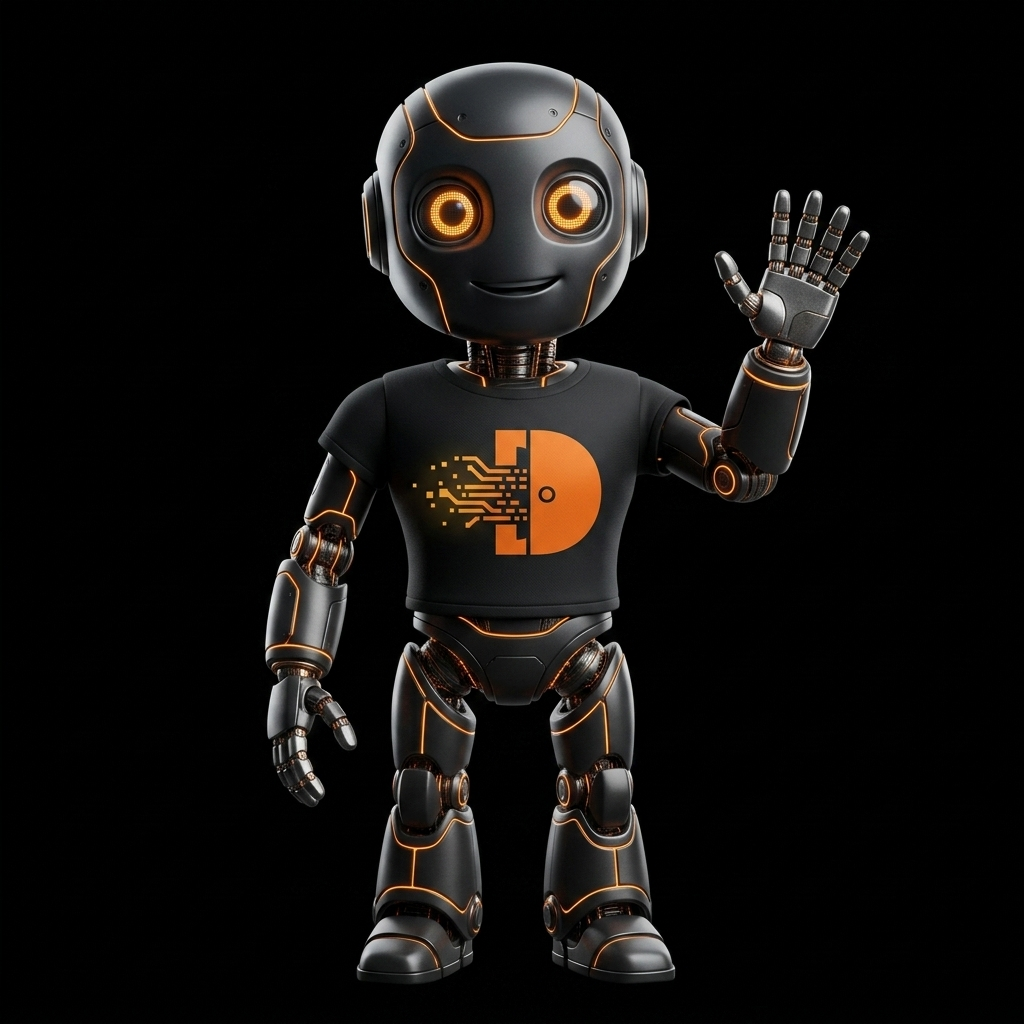
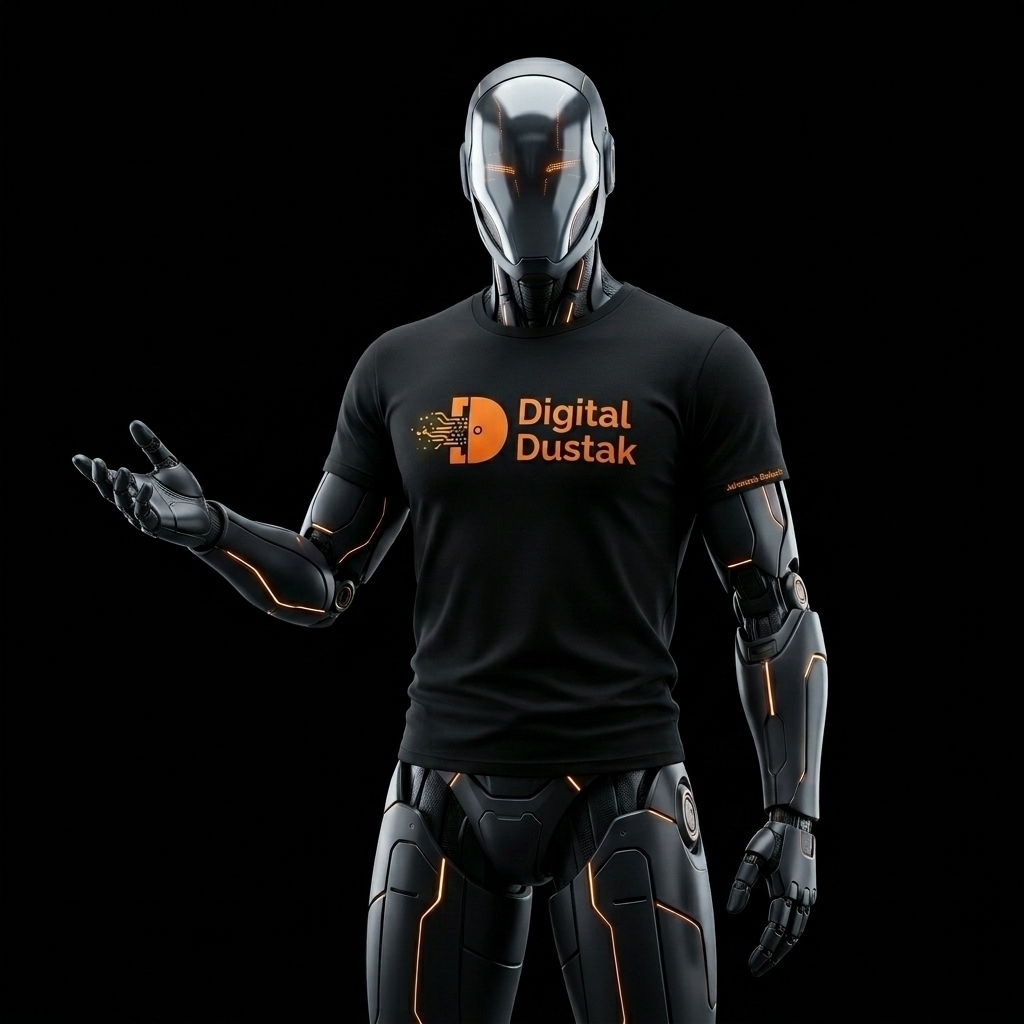
feat: implemented premium wandering AI robot with Jahanzeb Baloch name, transparent blending, and autonomous speech bubble

Changed region(s): [[0.0625, 0.0312, 0.8438, 1.0]]

diff --git a/styles/chat.css b/styles/chat.css
@@ -9,56 +9,107 @@
 
 #celestial-chat-container {
     position: fixed;
-    bottom: 30px;
-    right: 30px;
+    top: 0;
+    left: 0;
+    /* Move container off-screen initially to avoid flicker, JS will place it */
+    transform: translate(-500px, -500px); 
     z-index: 10000;
     font-family: 'Inter', sans-serif;
+    /* Smooth wandering movement using GPU */
+    transition: transform 4s ease-in-out;
+    pointer-events: none; /* Let clicks pass through the huge invisible container */
+}
+
+/* Re-enable pointer events for actual interactive children */
+#celestial-chat-container * {
+    pointer-events: auto;
 }
 
 /* Launcher Button (The Robot Mascot) */
 #chat-launcher {
-    width: 100px; /* Increased size */
-    height: 100px;
-    border-radius: 50%;
+    width: 180px; /* Much larger premium size */
+    height: 180px;
     cursor: pointer;
     position: relative;
-    transition: all 0.4s cubic-bezier(0.175, 0.885, 0.32, 1.275);
     overflow: visible;
-    /* 3D Floating Animation */
-    animation: floating-3d 4s ease-in-out infinite;
-    will-change: transform; /* GPU Hint for smooth 3D motion */
+    display: flex;
+    align-items: center;
+    justify-content: center;
+    border-radius: 50%;
 }
 
 #chat-launcher img {
-    width: 100%;
-    height: 100%;
+    width: 130%;
+    height: 130%;
     object-fit: contain;
-    /* Glow effect */
-    filter: drop-shadow(0 0 15px rgba(245, 124, 44, 0.4));
+    /* PERFECT BLENDING for pure black background */
+    mix-blend-mode: screen; 
+    /* Subtle breathing animation instead of aggressive floating */
+    animation: breathing 4s ease-in-out infinite;
+    will-change: transform;
+    filter: drop-shadow(0 0 10px rgba(245, 124, 44, 0.2));
 }
 
-@keyframes floating-3d {
-    0% { transform: translateY(0px) rotateX(0deg) rotateY(0deg); }
-    50% { transform: translateY(-20px) rotateX(5deg) rotateY(15deg); }
-    100% { transform: translateY(0px) rotateX(0deg) rotateY(0deg); }
+@keyframes breathing {
+    0% { transform: scale(1) translateY(0); }
+    50% { transform: scale(1.02) translateY(-5px); }
+    100% { transform: scale(1) translateY(0); }
 }
 
-#chat-launcher:hover {
-    transform: scale(1.1) rotate(5deg);
-    box-shadow: 0 0 35px rgba(245, 124, 44, 0.5);
+#chat-launcher:hover img {
+    transform: scale(1.08) translateY(-10px);
+    filter: drop-shadow(0 0 20px rgba(245, 124, 44, 0.6));
+    animation-play-state: paused;
 }
 
-@keyframes bubble-pulse {
-    0% { transform: scale(1); opacity: 0.6; }
-    50% { transform: scale(1.15); opacity: 0.2; }
-    100% { transform: scale(1); opacity: 0.6; }
+/* Autonomous Speech Bubble */
+.chat-speech-bubble {
+    position: absolute;
+    top: -70px;
+    left: 50%;
+    transform: translateX(-50%) translateY(20px) scale(0.8);
+    background: rgba(20, 20, 20, 0.95);
+    border: 1px solid rgba(245, 124, 44, 0.4);
+    box-shadow: 0 10px 25px rgba(0,0,0,0.5), 0 0 15px rgba(245, 124, 44, 0.2);
+    border-radius: 12px;
+    padding: 12px 18px;
+    color: #fff;
+    font-size: 13px;
+    font-weight: 500;
+    white-space: nowrap;
+    opacity: 0;
+    visibility: hidden;
+    transition: all 0.5s cubic-bezier(0.175, 0.885, 0.32, 1.275);
+    pointer-events: none;
+    z-index: 100;
+}
+
+.chat-speech-bubble::after {
+    content: '';
+    position: absolute;
+    bottom: -6px;
+    left: 50%;
+    transform: translateX(-50%) rotate(45deg);
+    width: 12px;
+    height: 12px;
+    background: rgba(20, 20, 20, 0.95);
+    border-right: 1px solid rgba(245, 124, 44, 0.4);
+    border-bottom: 1px solid rgba(245, 124, 44, 0.4);
+}
+
+.chat-speech-bubble.show-bubble {
+    opacity: 1;
+    visibility: visible;
+    transform: translateX(-50%) translateY(0) scale(1);
 }
 
 /* Chat Window */
 #chat-window {
     position: absolute;
-    bottom: 100px;
-    right: 0;
+    /* Fixed offset relative to the moving launcher */
+    bottom: 100%;
+    right: -100px; /* Offset to the left a bit so it doesn't clip off screen on right edge */
+    margin-bottom: 20px;
     width: 380px;
     height: 550px;
     background: var(--chat-bg);

diff --git a/scripts/main.js b/scripts/main.js
@@ -584,5 +584,96 @@ document.addEventListener('DOMContentLoaded', () => {
     chatInput?.addEventListener('keypress', (e) => {
         if (e.key === 'Enter') handleSendMessage();
     });
-}
+
+    // ── Autonomous Wandering Logic ─────────────────────────────────────────
+    const chatContainer = document.getElementById('celestial-chat-container');
+    const speechBubble = document.getElementById('chat-speech-bubble');
+    
+    // Greetings to cycle through when paused
+    const greetings = [
+        "Hi! I'm Jahanzeb Baloch.<br>How can I help you?",
+        "Ready to scale your brand? Let's talk.",
+        "Need a viral hit? I'm your agent.",
+        "Main aapki madad kaise kar sakta hoon?",
+        "Explore our portfolio to see real results."
+    ];
+
+    if (chatContainer && chatLauncher) {
+        let isWandering = true;
+        
+        // Stop wandering if chat is open to avoid annoyances
+        chatLauncher.addEventListener('click', () => {
+            if (chatWindow?.classList.contains('active')) {
+                isWandering = false;
+                speechBubble?.classList.remove('show-bubble'); // hide bubble if chat opens
+            } else {
+                isWandering = true;
+                wanderLoop(); // resume
+            }
+        });
+
+        // Function to move to a random position in the bottom 40% of the screen
+        const moveRobot = () => {
+            if (!isWandering) return;
+            
+            // Safe bounds (respecting the 180px size)
+            const maxX = window.innerWidth - 200;
+            const minX = 20;
+            // Limit to bottom 40%
+            const maxY = window.innerHeight - 200;
+            const minY = window.innerHeight * 0.6; 
+
+            // Calculate new position
+            const randomX = Math.floor(Math.random() * (maxX - minX + 1)) + minX;
+            const randomY = Math.floor(Math.random() * (maxY - minY + 1)) + minY;
+
+            // Apply translation (hardware accelerated)
+            chatContainer.style.transform = `translate(${randomX}px, ${randomY}px)`;
+        };
+
+        const showGreeting = () => {
+            if (!isWandering || !speechBubble) return;
+            
+            // Pick random greeting
+            const randomText = greetings[Math.floor(Math.random() * greetings.length)];
+            speechBubble.innerHTML = randomText;
+            
+            speechBubble.classList.add('show-bubble');
+            
+            // Hide after 4 seconds
+            setTimeout(() => {
+                speechBubble.classList.remove('show-bubble');
+            }, 4000);
+        };
+
+        const wanderLoop = () => {
+            if (!isWandering) return;
+            
+            moveRobot();
+            
+            // Wait for movement to finish (4s css transition), then maybe greet, then wait before next move
+            setTimeout(() => {
+                // 50% chance to greet when stopped
+                if (Math.random() > 0.5) showGreeting();
+                
+                // Wait while stopped (between 3 to 6 seconds)
+                const pauseTime = Math.floor(Math.random() * 3000) + 3000;
+                
+                setTimeout(() => {
+                    wanderLoop(); // Go again
+                }, pauseTime);
+                
+            }, 4000); // matches CSS transition time
+        };
+
+        // Start Initial Position (bottom right corner immediately without animation)
+        chatContainer.style.transition = 'none';
+        chatContainer.style.transform = `translate(${window.innerWidth - 200}px, ${window.innerHeight - 200}px)`;
+        
+        // Start Loop after a short delay
+        setTimeout(() => {
+            chatContainer.style.transition = 'transform 4s ease-in-out';
+            wanderLoop();
+        }, 1500);
+    }
 });

diff --git a/index.html b/index.html
@@ -541,6 +541,9 @@
       </div>
     </div>
     <div id="chat-launcher">
+      <div class="chat-speech-bubble" id="chat-speech-bubble">
+        Hi! I'm Jahanzeb Baloch.<br>How can I help you?
+      </div>
       <img src="assets/ai-assistant.png" alt="AI Robot Assistant">
     </div>
   </div>
